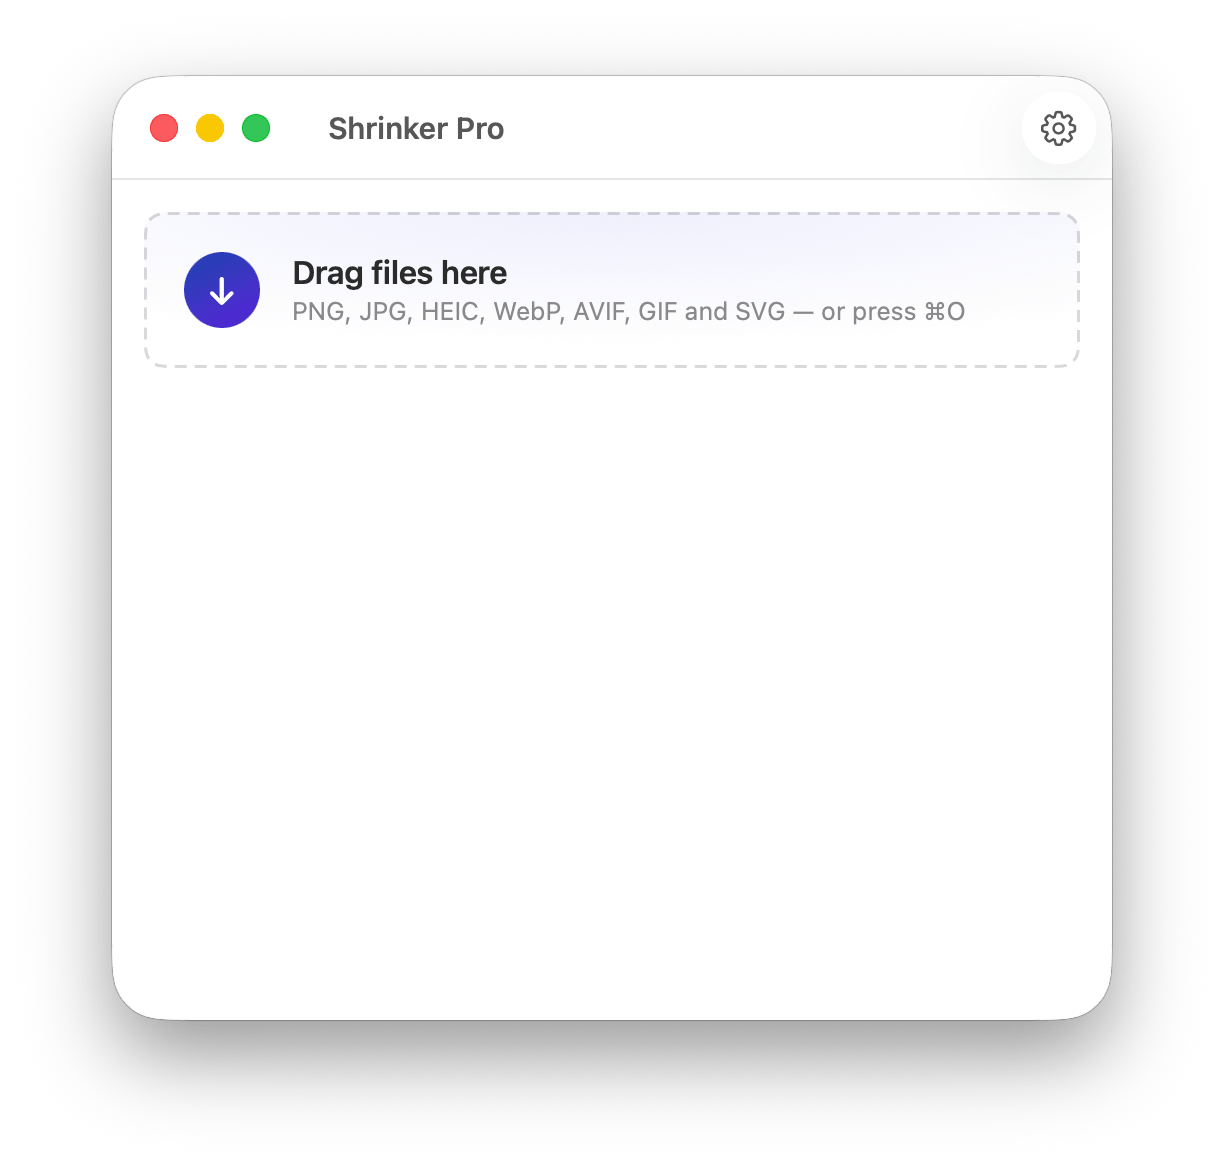
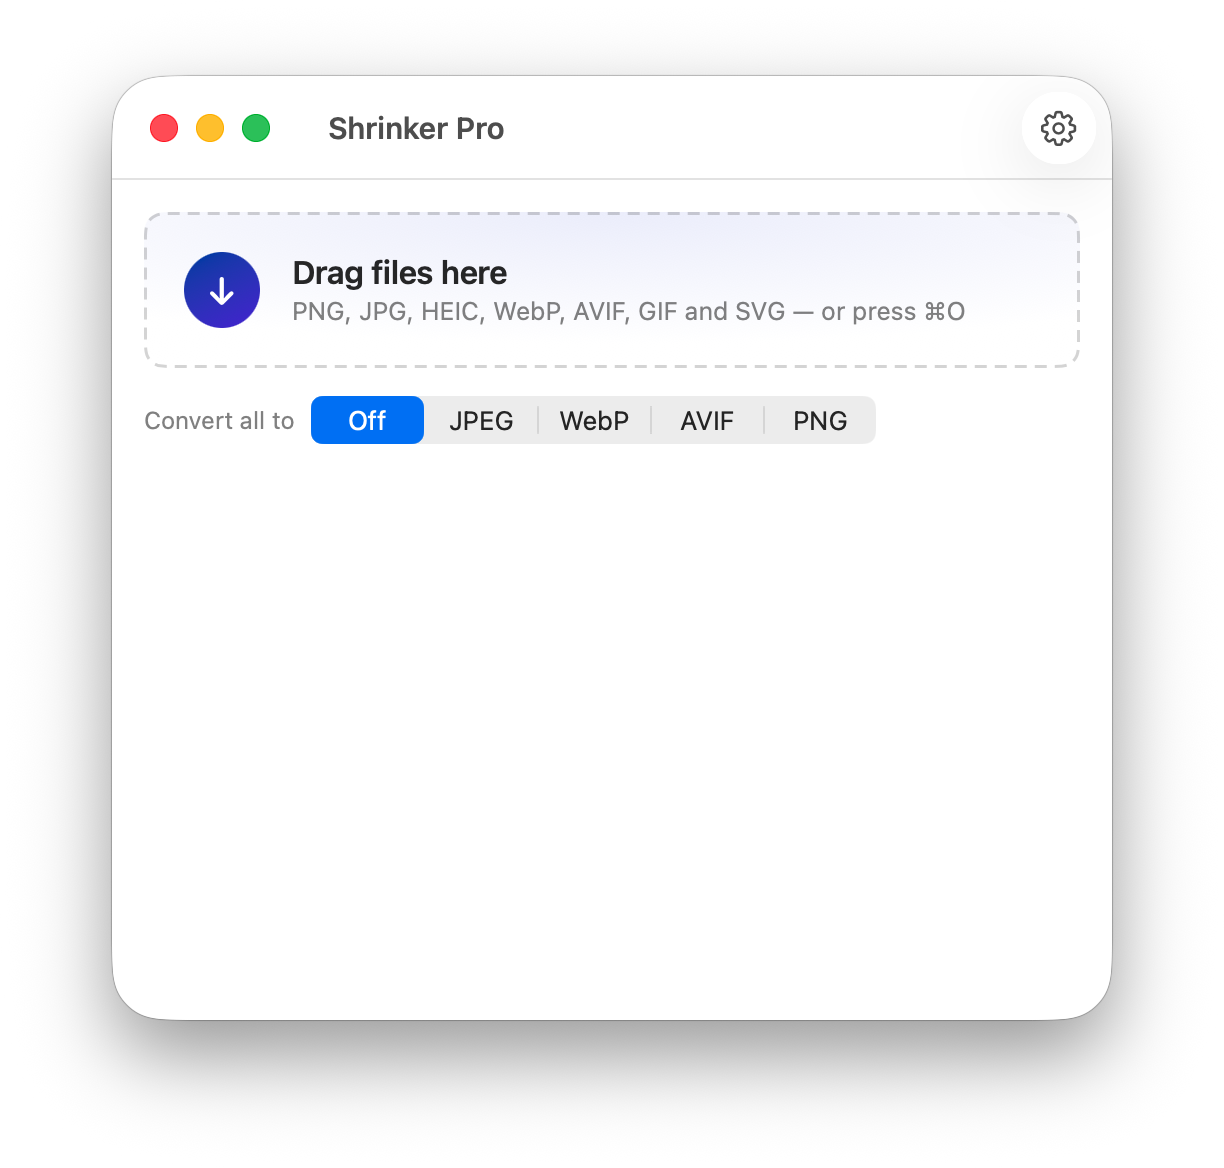
Release 1.1.0
Version 1.0.2 -> 1.1.0, build 3 -> 4. A minor bump rather than a patch:
the rotation fix ships alongside three user-visible additions -- the
metadata policy, the session conversion override with its PNG target,
and the renamed "Keep original files" toggle.

appcast.xml regenerated by scripts/release.sh against the notarized and
stapled DMG (3,411,133 bytes, EdDSA signed). Do not push this before the
GitHub Release exists with the DMG uploaded under the matching filename:
Sparkle would find an update and fail to download it, and every existing
install keeps checking the same broken feed.

Screenshots re-captured from the 1.1.0 Release build, in both
appearances, at the same window sizes as before. The main window is 8px
taller and Settings 336px taller, since the override bar and the
Metadata section both add height -- the site's hardcoded intrinsic
width/height attributes are updated to match in the website repo.

README prose follows the rename: the ".min suffix" wording described the
mechanism rather than the stake, and the alt text describing the
Settings panel had gone stale along with it.

Claude-Session: https://claude.ai/code/session_01UViFBUxU17vNiGaZY7p2so

diff --git a/README.md b/README.md
@@ -25,8 +25,12 @@ A native, Apple Silicon macOS app.
 
 Drag PNG, JPEG, GIF, SVG, WebP, AVIF, or HEIC files onto the window and
 Shrinker Pro writes a smaller copy beside the original — or wherever you tell
-it to. Originals are never replaced unless you ask for that (turn off both the
-`.min` suffix and the `minified/` subfolder in Settings).
+it to. Originals are never replaced unless you ask for that — "Keep original
+files" is on by default, and turning it off is what writes over them.
+
+Photos keep their rotation. EXIF orientation is applied to the pixels rather
+than passed along as a tag, so a portrait iPhone shot comes out upright in
+every app, whatever format you convert it to.
 
 ## Install
 
@@ -115,13 +119,49 @@ with no file or process access, so all of it is enumerable in tests.
 Converting to a format's own type (JPEG→JPEG, WebP→WebP, AVIF→AVIF) takes the
 same fast path as "keep" — it compresses, it does not round-trip.
 
+### Convert all to…
+
+Above the results list is a session override: **Convert all to** JPEG, WebP,
+AVIF or PNG. It replaces every per-format rule at once for as long as the app
+is open, without touching what you have stored, and it is gone the next time
+you launch. It is in the window rather than in Settings deliberately — it is
+visible the whole time it is on, so nothing converts behind your back.
+
+PNG is available here and nowhere else. As a stored rule it would sit next to
+"Keep PNG" meaning almost the same thing; as a one-off it is genuinely useful,
+for flattening a mixed folder to a single lossless format. PNG is lossless, so
+photographs converted to it usually get *larger* — the app says so when you
+pick it, and the results row reports the negative saving honestly.
+
+SVG and GIF ignore the override, exactly as they ignore the stored rules.
+
+## Metadata
+
+Settings carries one choice: keep **all metadata**, **copyright and credit
+only**, or **none**. The default is all — JPEG→JPEG already preserved EXIF
+before this setting existed, so anything else would have quietly deleted
+capture data from files the app used to round-trip intact.
+
+"Copyright and credit only" is the one to reach for before posting a photo
+anywhere: it keeps the rights and attribution fields and drops GPS, capture
+time and camera details.
+
+Rotation is not covered by any of the three. It is always applied to the
+pixels and never written back as a tag, because an orientation tag is an
+instruction about how to draw an image rather than a fact about it — and by
+the time the file is written, that instruction has been carried out.
+
+Metadata is rewritten without re-encoding: `CGImageDestinationCopyImageSource`
+copies the compressed image data across verbatim, so pngquant's palette and
+mozjpeg's progressive scans survive a metadata change intact.
+
 ## What it does — and doesn't do
 
 - Drop files or a folder anywhere on the window, or use "Open Files…". The
   entire window is a drop target, not just the dashed zone.
-- Output goes beside the original by default, or to a folder you choose, with
-  an optional `.min` suffix and/or `minified/` subfolder — configurable in
-  Settings.
+- Output goes beside the original by default, or to a folder you choose. "Keep
+  original files" writes a `.min` copy alongside; turn it off and the original
+  is replaced in place. A `minified/` subfolder is optional either way.
 - Results accumulate for the session, showing each file's before/after size
   and percentage saved. "Clear" empties the list; a Settings toggle can clear
   it automatically on each new drop instead.
@@ -145,7 +185,7 @@ same fast path as "keep" — it compresses, it does not round-trip.
 <picture>
   <source media="(prefers-color-scheme: dark)" srcset="docs/screenshots/empty-state-compact-dark.png">
   <source media="(prefers-color-scheme: light)" srcset="docs/screenshots/empty-state-compact-light.png">
-  <img src="docs/screenshots/empty-state-compact-dark.png" alt="The window at rest, showing a dashed drop zone reading “Drag files here — PNG, JPG, HEIC, WebP, AVIF, GIF and SVG”.">
+  <img src="docs/screenshots/empty-state-compact-dark.png" alt="The window at rest, showing a dashed drop zone reading “Drag files here — PNG, JPG, HEIC, WebP, AVIF, GIF and SVG”, and a “Convert all to” bar set to Off.">
 </picture>
 
 Drop anywhere in the window, not just the dashed zone.
@@ -156,10 +196,10 @@ Drop anywhere in the window, not just the dashed zone.
 <picture>
   <source media="(prefers-color-scheme: dark)" srcset="docs/screenshots/settings-dark.png">
   <source media="(prefers-color-scheme: light)" srcset="docs/screenshots/settings-light.png">
-  <img src="docs/screenshots/settings-dark.png" alt="Settings showing output location, .min suffix, notification and update toggles, and the per-format conversion rules.">
+  <img src="docs/screenshots/settings-dark.png" alt="Settings showing output location, the “Keep original files” toggle, notification and update toggles, the per-format conversion rules, and the metadata policy.">
 </picture>
 
-Output location, notifications, updates.
+Output location, notifications, metadata.
 
 </td>
 <td width="33%" valign="top">
